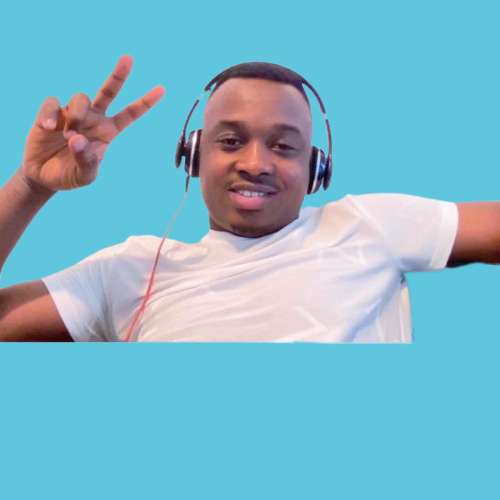
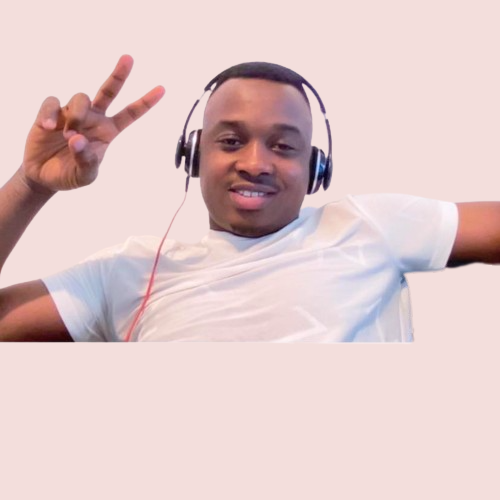
change profil

diff --git a/assets/css/style.css b/assets/css/style.css
@@ -1274,11 +1274,9 @@ box-shadow: rgba(0, 0, 0, 0.07) 0px 1px 1px, rgba(0, 0, 0, 0.07) 0px 2px 2px, rg
 
 .imageRounde{
   border-radius: 50%;
-  /* border: 2px solid #60C6DD; */
-  /* reduire la taille de l'image quand l'ecran  */
    width: 70%; 
    height: 70%;
-  box-shadow: #60C6DD 10px 54px 55px, rgba(0, 0, 0, 0.12) 0px -12px 30px, rgba(0, 0, 0, 0.12) 0px 4px 6px, rgba(0, 0, 0, 0.17) 0px 12px 13px, rgba(0, 0, 0, 0.09) 0px -3px 5px;
+  box-shadow: #60c6dd88 10px 54px 55px, rgba(0, 0, 0, 0.12) 0px -12px 30px, rgba(0, 0, 0, 0.12) 0px 4px 6px, rgba(0, 0, 0, 0.17) 0px 12px 13px, rgba(0, 0, 0, 0.09) 0px -3px 5px;
 
 }
 
@@ -1287,19 +1285,7 @@ box-shadow: rgba(0, 0, 0, 0.07) 0px 1px 1px, rgba(0, 0, 0, 0.07) 0px 2px 2px, rg
   display: inline-block;
 }
 
-.imageOverlay::after {
-  content: "";
-  position: absolute;
-  top: 0;
-  left: 0;
-  width: fit-content;
-  height: fit-content;
-  width: 70%; 
-   height: 100%;
-  background-color: rgba(10, 10, 10, 0.272); /* Couleur de fond avec une opacité de 0.5 (50% transparent) */
-  border-radius: 50%;
-  box-shadow: #4795a83a 0px 54px 55px, rgba(0, 0, 0, 0.12) 0px -12px 30px, rgba(0, 0, 0, 0.12) 0px 4px 6px, rgba(0, 0, 0, 0.17) 0px 12px 13px, rgba(0, 0, 0, 0.09) 0px -3px 5px;
-}
+
 
 /* lorsque l'écran a une largeur de 768px ou moins, l'image passe à 70% de large */
 @media (max-width: 768px) {
